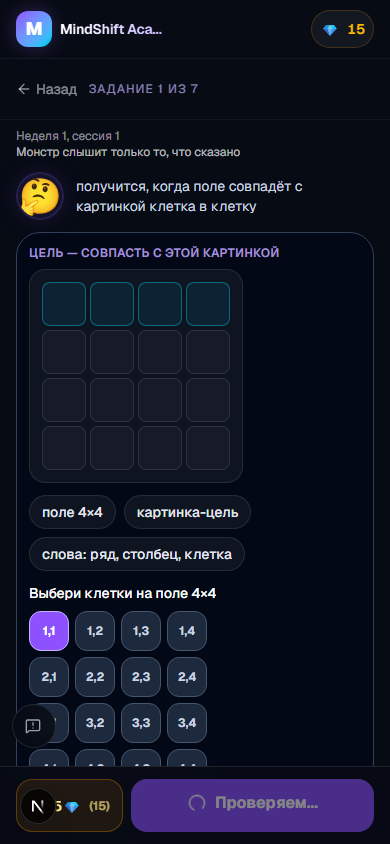
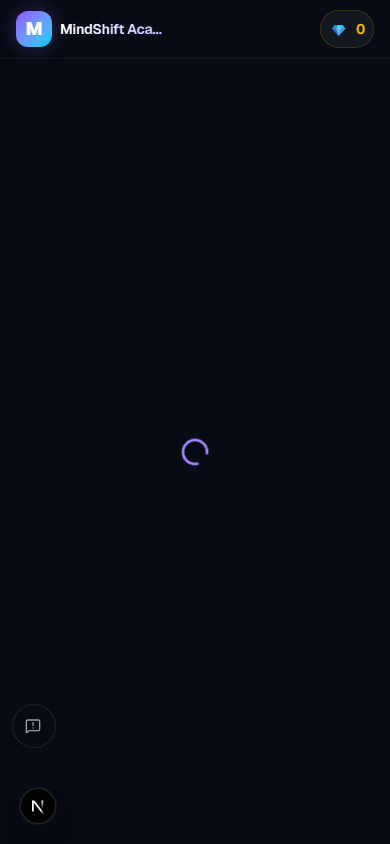
fix(a11y): every control reaches 44px, and the monster stops teleporting in
Applies the impeccable audit and the emil-design-eng review to the live child and
parent surfaces. Both skills were run against this codebase; findings verified at
file:line and then measured in a real browser rather than argued from class names.

Touch targets, measured at 320px — the width the brief calls a real device:

- The child's code boxes were 32px wide. This is the one control an unsupervised
  child must use to get in, and 02-CURRENT-STATE.md reported it open. Now 56px on a
  phone, 44px in the desktop row. The room was always there: 320px leaves 272px
  inside the page padding and four 56px boxes with 8px gaps need 248px.
- All sixteen grid cells were 40px. They are the most-tapped controls in the whole
  product and every one was under the minimum. Now 44px.
- The read-aloud button was 32px — the smallest target on the screen, and the one a
  child who cannot read well depends on most. Now 44px, with press feedback.

scripts/e2e/touch-target-check.mjs measures every rendered button, link, input and
summary on the entry and session screens and fails the build if any is under 44px or
if either screen scrolls horizontally. Wired into verify:release. A static class grep
could not have caught these: the sizes only exist once the browser lays them out.

Motion, from the emil-design-eng review:

- The re-ask and the stuck-help notice appeared as hard cuts. That is the product's
  emotional moment — the monster asking instead of failing the child — and it arrived
[…]

diff --git a/src/app/session/[id]/page.tsx b/src/app/session/[id]/page.tsx
@@ -3,7 +3,7 @@
 import React, { useCallback, useEffect, useMemo, useRef, useState } from "react";
 import { useParams, useRouter } from "next/navigation";
 import Link from "next/link";
-import { motion, useReducedMotion } from "framer-motion";
+import { useReducedMotion } from "framer-motion";
 import { ArrowLeft, Loader2, Send, Lightbulb } from "lucide-react";
 import confetti from "canvas-confetti";
 import { Header } from "@/components/layout/Header";
@@ -685,13 +685,12 @@ export default function ThinkingSessionPage() {
             </p>
           ) : null}
           {showExplanation ? (
-            <motion.p
-              initial={prefersReducedMotion ? false : { opacity: 0, y: 8 }}
-              animate={{ opacity: 1, y: 0 }}
-              className="mt-2 rounded-2xl border border-white/10 bg-white/5 p-3 text-sm leading-relaxed text-gray-300 motion-reduce:transform-none motion-reduce:transition-none"
-            >
+            // Was a framer-motion `y` shorthand, which is not hardware-accelerated: it
+            // runs on the main thread and drops frames exactly when the page is busy
+            // fetching. Same motion, in CSS, off the main thread.
+            <p className="rise-in mt-2 rounded-2xl border border-white/10 bg-white/5 p-3 text-sm leading-relaxed text-gray-300">
               {session.explanationRu}
-            </motion.p>
+            </p>
           ) : null}
         </header>
 
@@ -802,7 +801,7 @@ export default function ThinkingSessionPage() {
                 data-testid="monster-reask"
                 role="status"
                 aria-live="polite"
-                className="flex items-start gap-3 rounded-2xl border border-white/10 bg-white/5 px-4 py-3"
+                className="rise-in flex items-start gap-3 rounded-2xl border border-white/10 bg-white/5 px-4 py-3"
               >
                 <MonsterAvatar mood="thinking" size={36} />
                 <div className="min-w-0">
@@ -822,7 +821,7 @@ export default function ThinkingSessionPage() {
                 data-testid="stuck-notice"
                 role="status"
                 aria-live="polite"
-                className="flex items-start gap-3 rounded-2xl border border-white/10 bg-white/5 px-4 py-3"
+                className="rise-in flex items-start gap-3 rounded-2xl border border-white/10 bg-white/5 px-4 py-3"
               >
                 <MonsterAvatar mood="happy" size={36} />
                 <div className="min-w-0 space-y-2">

diff --git a/src/components/curriculum/task-surfaces/GridDrawSurface.tsx b/src/components/curriculum/task-surfaces/GridDrawSurface.tsx
@@ -67,7 +67,11 @@ export function GridDrawSurface({
                 // The cell a child actually taps, several times per attempt: it had no
                 // feedback at all, so a tap either landed or it did not and only the colour
                 // said so, with no press. 120ms colour + a 0.94 press. plans/002.
-                className={`h-10 w-10 rounded-xl border text-xs font-bold transition-[color,background-color,border-color,scale] duration-[120ms] [transition-timing-function:var(--ease-out)] active:scale-[0.94] focus-visible:outline-2 focus-visible:outline-offset-2 focus-visible:outline-violet-300 sm:h-12 sm:w-12 sm:text-sm ${active ? "border-violet-300 bg-violet-500 text-white" : "border-slate-600 bg-slate-800 text-slate-300"}`}
+                // 44px on a phone, measured at 320px — was 40. Sixteen of these are the
+                // most-tapped controls in the product and every one of them was under the
+                // touch minimum. The room was always there: 320px leaves 264px inside the
+                // page and workspace padding, and four 44px cells with 6px gaps need 194px.
+                className={`h-11 w-11 rounded-xl border text-xs font-bold transition-[color,background-color,border-color,scale] duration-[120ms] [transition-timing-function:var(--ease-out)] active:scale-[0.94] focus-visible:outline-2 focus-visible:outline-offset-2 focus-visible:outline-violet-300 sm:h-12 sm:w-12 sm:text-sm ${active ? "border-violet-300 bg-violet-500 text-white" : "border-slate-600 bg-slate-800 text-slate-300"}`}
               >
                 {row + 1},{column + 1}
               </button>

diff --git a/src/app/globals.css b/src/app/globals.css
@@ -19,6 +19,40 @@
   --duration-press: 160ms;
 }
 
+/* The monster arriving with something to say. CSS, not framer-motion: this runs off the
+   main thread, which is the difference between smooth and stuttering on a cheap Android
+   that is simultaneously fetching the next task. */
+@keyframes rise-in {
+  from { opacity: 0; transform: translateY(8px); }
+  to { opacity: 1; transform: translateY(0); }
+}
+@keyframes fade-in {
+  from { opacity: 0; }
+  to { opacity: 1; }
+}
+.rise-in {
+  animation: rise-in 200ms var(--ease-out) both;
+}
+/* A panel that belongs to a trigger grows out of that trigger, never from its own centre.
+   Starts at 0.97, never 0 — nothing in the real world appears from nothing. */
+@keyframes pop-from-corner {
+  from { opacity: 0; transform: scale(0.97); }
+  to { opacity: 1; transform: scale(1); }
+}
+.pop-from-corner {
+  transform-origin: bottom left;
+  animation: pop-from-corner 160ms var(--ease-out) both;
+}
+
+/* Reduced motion means gentler, not nothing: the message still needs to announce itself,
+   it just stops travelling. */
+@media (prefers-reduced-motion: reduce) {
+  .rise-in,
+  .pop-from-corner {
+    animation: fade-in 200ms var(--ease-out) both;
+  }
+}
+
 @theme {
   --color-background: var(--background);
   --color-foreground: var(--foreground);

diff --git a/src/app/enter-code/page.tsx b/src/app/enter-code/page.tsx
@@ -128,7 +128,12 @@ export default function EnterCodePage() {
               onKeyDown={(e) => {
                 if (e.key === "Backspace" && !chars[i] && i > 0) boxes.current[i - 1]?.focus();
               }}
-              className="h-12 w-8 rounded-xl border border-white/15 bg-surface-strong/90 text-center text-xl font-bold uppercase text-white outline-none transition-[border-color,box-shadow] focus-visible:border-primary/70 focus-visible:ring-2 focus-visible:ring-primary/30 sm:h-14 sm:w-9"
+              // 56px on a phone, 44px in the desktop row. Was h-12 w-8 — 32px wide, under
+              // the 44px minimum, on the one control an unsupervised child must use to get
+              // in. Reported in docs/design-handoff/v1.1/02-CURRENT-STATE.md and open since.
+              // The space was always there: at 320px the page has 272px inside its px-6,
+              // and four 56px boxes with 8px gaps need 248px.
+              className="h-14 w-14 rounded-xl border border-white/15 bg-surface-strong/90 text-center text-xl font-bold uppercase text-white outline-none transition-[border-color,box-shadow] focus-visible:border-primary/70 focus-visible:ring-2 focus-visible:ring-primary/30 sm:h-14 sm:w-11"
             />
           ))}
         </div>

diff --git a/src/components/guide/MascotCue.tsx b/src/components/guide/MascotCue.tsx
@@ -33,7 +33,9 @@ export function MascotCue({
         type="button"
         onClick={speak}
         aria-label="Прослушать подсказку"
-        className="grid h-8 w-8 shrink-0 place-items-center rounded-full border border-white/12 bg-white/[0.04] text-primary-soft transition-colors hover:bg-white/[0.08] focus-visible:outline-none focus-visible:ring-2 focus-visible:ring-primary/50"
+        // 44px, not 32. This is the read-aloud button — the control a child who cannot
+        // read well depends on most, and it was the smallest target on the screen.
+        className="grid h-11 w-11 shrink-0 place-items-center rounded-full border border-white/12 bg-white/[0.04] text-primary-soft transition-[background-color,scale] duration-[160ms] [transition-timing-function:var(--ease-out)] active:scale-[0.94] hover:bg-white/[0.08] focus-visible:outline-none focus-visible:ring-2 focus-visible:ring-primary/50"
       >
         <Volume2 className="h-4 w-4" />
       </button>

diff --git a/src/components/support/ReportProblemButton.tsx b/src/components/support/ReportProblemButton.tsx
@@ -93,7 +93,9 @@ export function ReportProblemButton() {
     return (
       <div
         data-testid="report-problem-form"
-        className="fixed bottom-24 left-3 z-50 w-[min(20rem,calc(100vw-1.5rem))] space-y-2 rounded-2xl border border-white/10 bg-[var(--color-bg-base)]/95 p-3 backdrop-blur"
+        // Origin-aware: this panel comes out of the button in the bottom-left corner, so
+        // it grows from there rather than from its own centre.
+        className="pop-from-corner fixed bottom-24 left-3 z-50 w-[min(20rem,calc(100vw-1.5rem))] space-y-2 rounded-2xl border border-white/10 bg-[var(--color-bg-base)]/95 p-3 backdrop-blur"
         style={{ marginBottom: "env(safe-area-inset-bottom, 0px)" }}
       >
         <label className="block text-xs text-white/60" htmlFor="report-problem-note">
